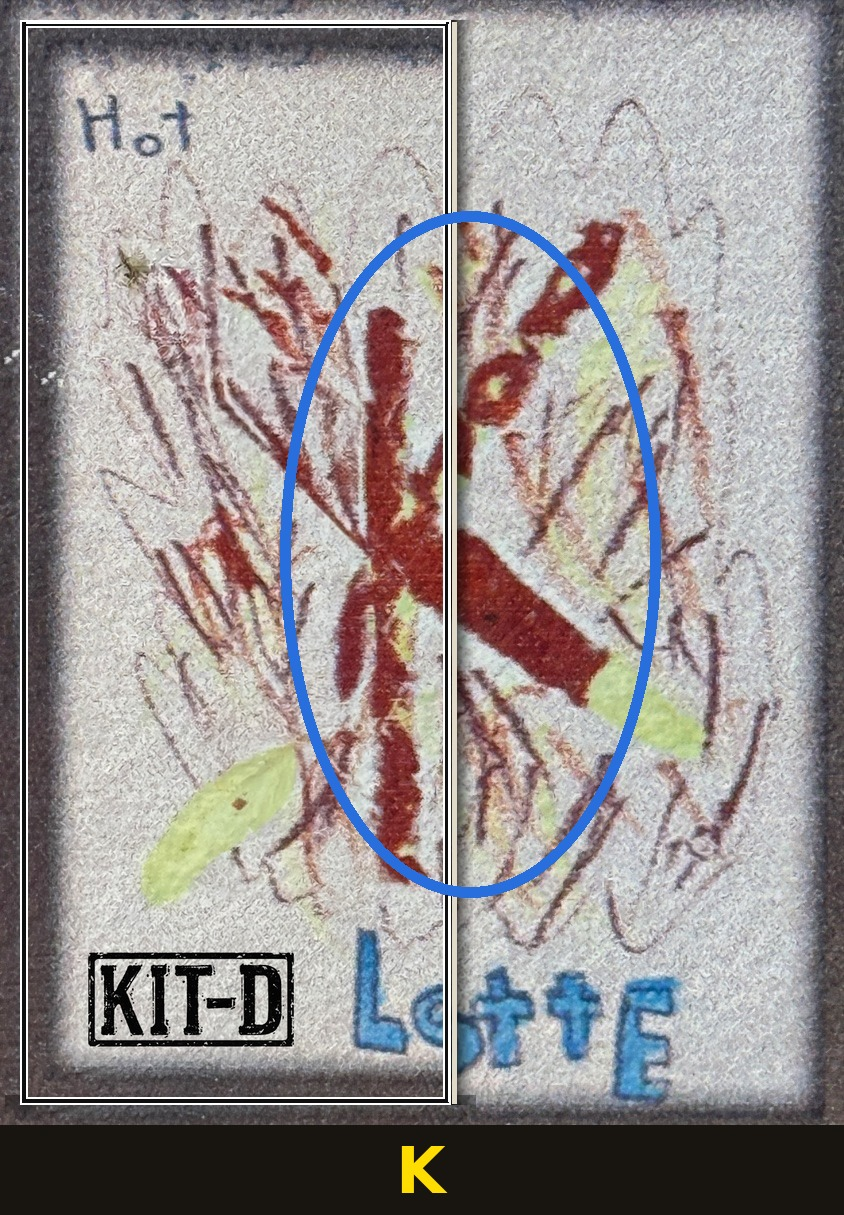
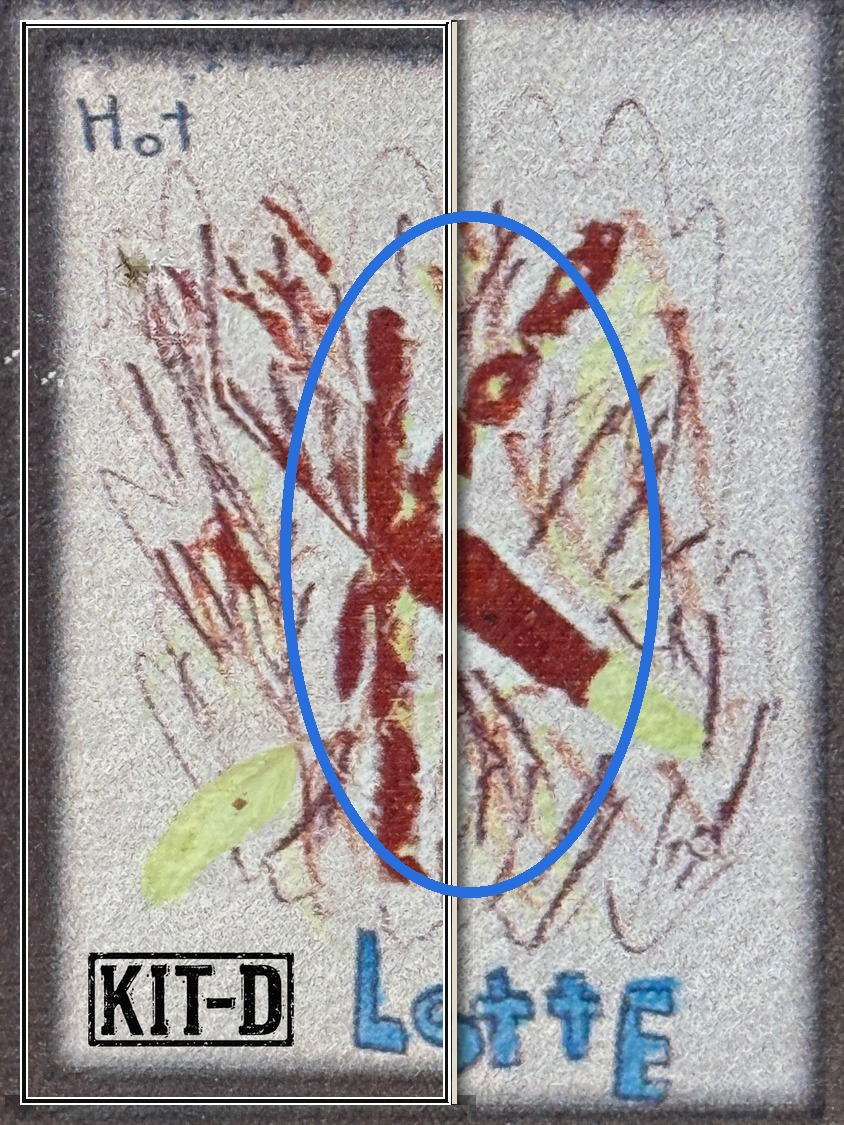
Move K/E/Y labels out of FILE_06 explanation images into text below, matching NULL-Z explanation style
Claude-Session: https://claude.ai/code/session_01JNSv2zALJDpwVya8qsmDtn

diff --git a/index.html b/index.html
@@ -1436,10 +1436,10 @@ const files = [
    answer:'KEY',unlockCode:'MEMORYTOWER',answerLen:3,
    content:`<div class="detail-section"><div class="detail-section-title">▶ 사건 일지 — 2025. 07. 03</div><div>MEMORY TOWER.. AB-051 근처에 있는 건물이다.<br>사람들의 행복한 기억들을 그려놓은 건물에서 제조를 하고 있었다니 확실히 악랄한 녀석들이다.<br><br>NULL-Z의 효과, 단기 기억 삭제..<br>잊고 싶은 기억을 지우고, 행복한 기억만 남기고 싶다는 욕구로 사람들은 점점 중독돼 갔겠지..<br><br>벽화 앞을 서성이다 바닥에 떨어져 있는 그림 조각들을[KIT-D] 발견했다.<br>중요한 단서가 될 수 있으려나?</div></div>`,
    hints:['KIT-D 세 장과 매칭되는 그림을 찾으세요.','매칭되는 그림의 틀에 KIT-D를 맞춰서 만들어지는 단어를 찾으세요.'],
-   answerText:`<div style="display:flex;gap:6px;">
-    <img src="assets/file06_explain1.jpg" style="width:33.33%;border-radius:4px;cursor:zoom-in;" onclick="openPhotoZoom('assets/file06_explain1.jpg')">
-    <img src="assets/file06_explain2.jpg" style="width:33.33%;border-radius:4px;cursor:zoom-in;" onclick="openPhotoZoom('assets/file06_explain2.jpg')">
-    <img src="assets/file06_explain3.jpg" style="width:33.33%;border-radius:4px;cursor:zoom-in;" onclick="openPhotoZoom('assets/file06_explain3.jpg')">
+   answerText:`<div style="display:flex;gap:4px;">
+    <div style="flex:1;display:flex;flex-direction:column;align-items:center;gap:3px;"><img src="assets/file06_explain1.jpg" style="width:100%;border-radius:4px;cursor:zoom-in;" onclick="openPhotoZoom('assets/file06_explain1.jpg')"><span style="font-size:18px;font-weight:bold;color:#000;">K</span></div>
+    <div style="flex:1;display:flex;flex-direction:column;align-items:center;gap:3px;"><img src="assets/file06_explain2.jpg" style="width:100%;border-radius:4px;cursor:zoom-in;" onclick="openPhotoZoom('assets/file06_explain2.jpg')"><span style="font-size:18px;font-weight:bold;color:#000;">E</span></div>
+    <div style="flex:1;display:flex;flex-direction:column;align-items:center;gap:3px;"><img src="assets/file06_explain3.jpg" style="width:100%;border-radius:4px;cursor:zoom-in;" onclick="openPhotoZoom('assets/file06_explain3.jpg')"><span style="font-size:18px;font-weight:bold;color:#000;">Y</span></div>
    </div>`},
 
   // #8 FILE_07
